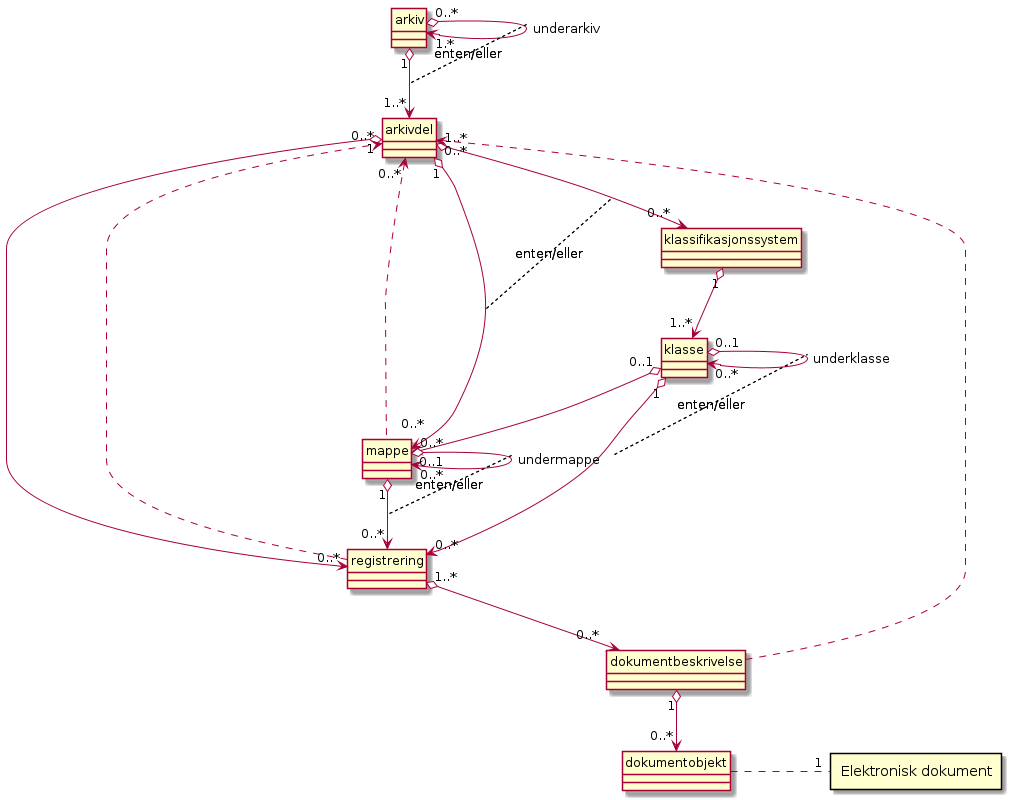
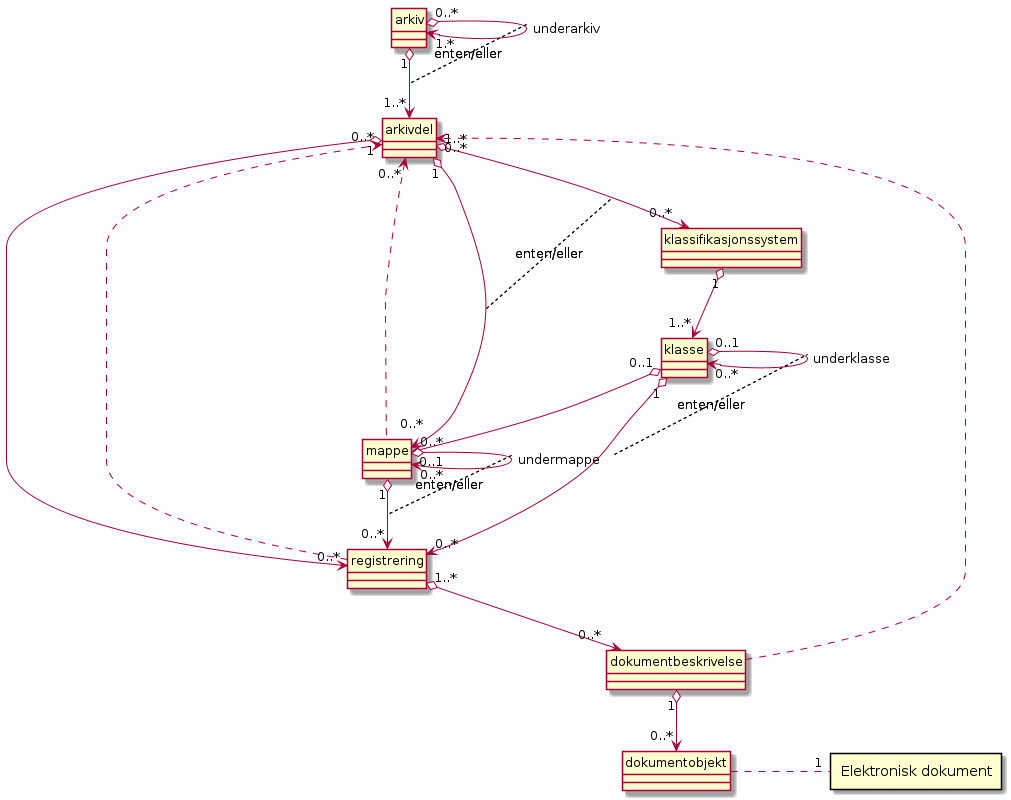
Tillat mappe og registrering på samme nivå
En begresning i dagens Noark 5 som gjør import av endel datastrukturer
litt utfordrende er at det er beskrevet en beskranking om at undermapper
og registreringer ikke kan eksistere sammen i en mappe.

Foreslår å fjerne denne begresningen, og så vidt jeg kan se krever det en
liten tekstlig endring samt en justering av en UML-diagram.

diff --git a/kapitler/030-noark-5-datamodell.rst b/kapitler/030-noark-5-datamodell.rst
@@ -371,7 +371,7 @@ Utgangspunktet for alle mappetyper i Noark 5 er metadataene i en *mappe*. Denne 
 
 **Undermappe**
 
-En mappe kan inneholde en eller flere undermapper (spesifisert som egenrelasjon i *mappe*). Arv fra en klasse vil alltid gå til mappen på det øverste nivået. Dersom mappenivået består av flere nivåer, skal registreringer bare kunne knyttes til det laveste nivået. En mappe kan altså ikke inneholde både andre mapper og registreringer.
+En mappe kan inneholde en eller flere undermapper (spesifisert som egenrelasjon i *mappe*). Arv fra en klasse vil alltid gå til mappen på det øverste nivået.  En mappe kan både inneholder andre mapper og individuelle registreringer.
 
 **Saksmappe**
 
